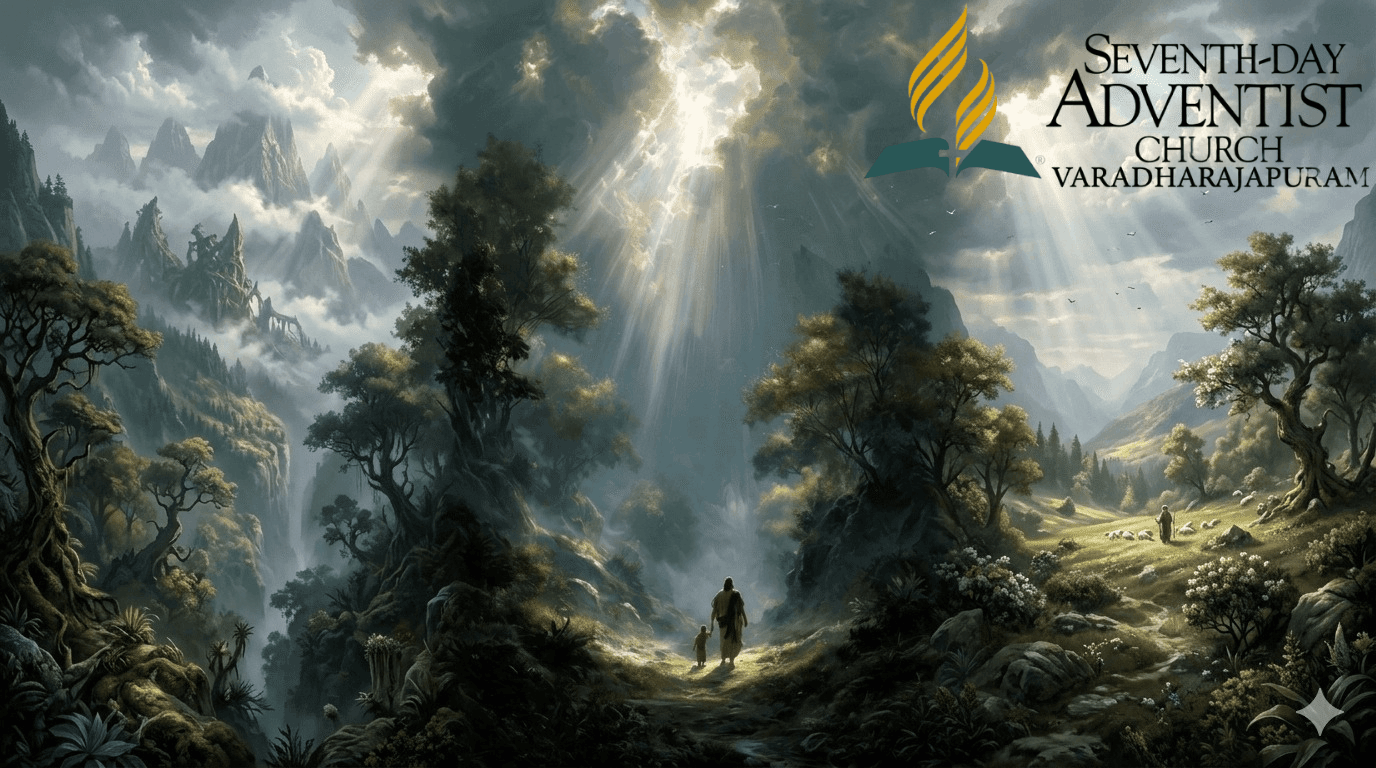
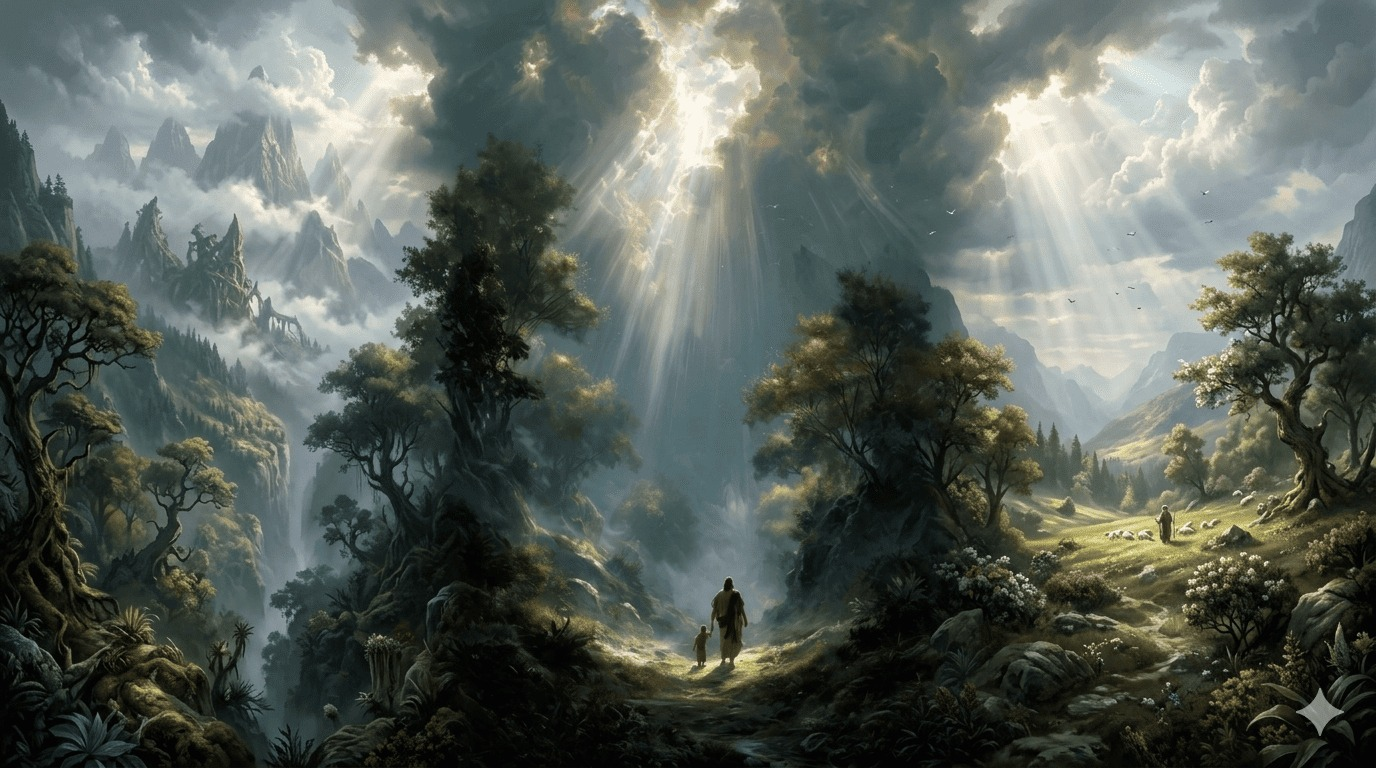
verse of the day download file enhanced

Changed region(s): [[0.625, 0.0, 1.0, 0.25]]

diff --git a/components/home/VerseOfTheDay.jsx b/components/home/VerseOfTheDay.jsx
@@ -1,4 +1,5 @@
 'use client';
+import Image from 'next/image';
 import { useEffect, useState } from 'react';
 import { useSelector } from 'react-redux';
 import { Download, BookOpen, RefreshCw, Loader2 } from 'lucide-react';
@@ -37,63 +38,114 @@ export default function VerseOfTheDay() {
   const downloadVerse = () => {
     if (!verse) return;
     const canvas = document.createElement('canvas');
-    canvas.width = 1200;
-    canvas.height = 630;
+    const isMobile = window.innerWidth < 768;
+    
+    canvas.width = isMobile ? 1080 : 1920;
+    canvas.height = isMobile ? 1920 : 1080;
+    
     const ctx = canvas.getContext('2d');
+    const bgImg = new window.Image();
+    const logoImg = new window.Image();
+    
+    bgImg.crossOrigin = 'anonymous';
+    logoImg.crossOrigin = 'anonymous';
+    
+    bgImg.src = isMobile ? '/images/verses_bg_portrait.png' : '/images/verses_bg_landscape.png';
+    logoImg.src = '/images/varadharajapuram_logo.png';
 
-    // Background gradient
-    const gradient = ctx.createLinearGradient(0, 0, 1200, 630);
-    gradient.addColorStop(0, '#4c1d95');
-    gradient.addColorStop(1, '#1a1a2e');
-    ctx.fillStyle = gradient;
-    ctx.fillRect(0, 0, 1200, 630);
+    let imagesLoaded = 0;
+    const onImageLoad = () => {
+      imagesLoaded++;
+      if (imagesLoaded === 2) drawCanvas();
+    };
 
-    // Cross decoration
-    ctx.fillStyle = 'rgba(255,255,255,0.05)';
-    ctx.fillRect(575, 100, 50, 430);
-    ctx.fillRect(375, 280, 450, 70);
+    bgImg.onload = onImageLoad;
+    logoImg.onload = onImageLoad;
+    bgImg.onerror = onImageLoad; // Continue even if one fails
+    logoImg.onerror = onImageLoad;
 
-    // Verse text
-    ctx.fillStyle = '#ffffff';
-    ctx.font = 'bold 36px Georgia';
-    ctx.textAlign = 'center';
+    function drawCanvas() {
+      // 1. Draw Background
+      const canvasAspect = canvas.width / canvas.height;
+      const imgAspect = bgImg.width / bgImg.height;
+      let drawW, drawH, drawX, drawY;
 
-    const text = language === 'ta' ? verse.ta : verse.en;
-    const words = text.split(' ');
-    let lines = [];
-    let currentLine = '';
-    words.forEach((word) => {
-      const testLine = currentLine + word + ' ';
-      if (ctx.measureText(testLine).width > 900) {
-        lines.push(currentLine.trim());
-        currentLine = word + ' ';
+      if (imgAspect > canvasAspect) {
+        drawH = bgImg.height;
+        drawW = bgImg.height * canvasAspect;
+        drawX = (bgImg.width - drawW) / 2;
+        drawY = 0;
       } else {
-        currentLine = testLine;
+        drawW = bgImg.width;
+        drawH = bgImg.width / canvasAspect;
+        drawX = 0;
+        drawY = 0;
       }
-    });
-    lines.push(currentLine.trim());
+      ctx.drawImage(bgImg, drawX, drawY, drawW, drawH, 0, 0, canvas.width, canvas.height);
 
-    const lineHeight = 50;
-    const startY = 315 - (lines.length * lineHeight) / 2;
-    ctx.font = '32px Georgia';
-    lines.forEach((line, i) => {
-      ctx.fillText(`"${i === 0 ? line : line}"`, 600, startY + i * lineHeight);
-    });
+      // 2. Dark Overlay
+      ctx.fillStyle = 'rgba(0, 0, 0, 0.45)';
+      ctx.fillRect(0, 0, canvas.width, canvas.height);
 
-    // Reference
-    ctx.font = 'bold 28px Georgia';
-    ctx.fillStyle = '#d4af37';
-    ctx.fillText(`— ${verse.ref}`, 600, startY + lines.length * lineHeight + 40);
+      // 3. Draw Logo (Top Right) - Maintain Aspect Ratio
+      const logoAspect = logoImg.width / logoImg.height;
+      const logoWidth = canvas.width * 0.15;
+      const logoHeight = logoWidth / logoAspect;
+      const margin = canvas.width * 0.04;
+      ctx.drawImage(logoImg, canvas.width - logoWidth - margin, margin, logoWidth, logoHeight);
 
-    // Church name
-    ctx.font = '22px sans-serif';
-    ctx.fillStyle = 'rgba(255,255,255,0.6)';
-    ctx.fillText('Grace Church', 600, 580);
+      // 4. Draw Text
+      ctx.textAlign = 'center';
+      ctx.textBaseline = 'middle';
+      
+      // Label (Moved to top)
+      ctx.fillStyle = '#f39c12'; // Dark Orange / Deep Gold
+      ctx.font = `bold ${canvas.width * 0.025}px sans-serif`;
+      ctx.fillText(language === 'ta' ? 'இன்றைய வசனம்' : 'VERSE OF THE DAY', canvas.width / 2, canvas.height * 0.1);
 
-    const link = document.createElement('a');
-    link.download = `verse-${verse.ref.replace(/[:\s]/g, '-')}.png`;
-    link.href = canvas.toDataURL();
-    link.click();
+      // Verse
+      ctx.fillStyle = '#ffffff';
+      ctx.font = `italic ${canvas.width * 0.045}px Georgia`;
+      const text = language === 'ta' ? verse.ta : verse.en;
+      const words = text.split(' ');
+      const lines = [];
+      let currentLine = '';
+      words.forEach(word => {
+        if (ctx.measureText(currentLine + word).width > canvas.width * 0.8) {
+          lines.push(currentLine.trim());
+          currentLine = word + ' ';
+        } else {
+          currentLine += word + ' ';
+        }
+      });
+      lines.push(currentLine.trim());
+
+      const lineHeight = canvas.width * 0.065;
+      const startY = (canvas.height / 2) - ((lines.length - 1) * lineHeight / 2);
+
+      lines.forEach((line, i) => {
+        let content = line;
+        if (i === 0) content = `"${content}`;
+        if (i === lines.length - 1) content = `${content}"`;
+        ctx.fillText(content, canvas.width / 2, startY + (i * lineHeight));
+      });
+
+      // Reference
+      ctx.fillStyle = '#d4af37';
+      ctx.font = `bold ${canvas.width * 0.035}px Georgia`;
+      ctx.fillText(`— ${verse.ref}`, canvas.width / 2, startY + (lines.length * lineHeight) + (canvas.height * 0.05));
+
+      // Brand
+      ctx.fillStyle = 'rgba(255,255,255,0.5)';
+      ctx.font = `${canvas.width * 0.02}px sans-serif`;
+      ctx.fillText('Seventh-day Adventist Church', canvas.width / 2, canvas.height * 0.92);
+
+      // Download
+      const link = document.createElement('a');
+      link.download = `verse-${verse.ref.replace(/[:\s]/g, '-')}.png`;
+      link.href = canvas.toDataURL('image/png');
+      link.click();
+    }
   };
 
   if (isLoading) {
@@ -107,8 +159,43 @@ export default function VerseOfTheDay() {
   if (!verse) return null;
 
   return (
-    <section className="bg-gradient-to-r from-primary-900 to-primary-800 py-16">
-      <div className="container-custom">
+    <section className="relative min-h-[500px] md:min-h-[600px] flex items-center py-24 md:py-32 overflow-hidden">
+      {/* Background Images */}
+      <div className="absolute inset-0 z-0">
+        <div className="hidden md:block h-full w-full relative">
+          <Image
+            src="/images/verses_bg_landscape.png"
+            alt="Verse background"
+            fill
+            className="object-cover object-top"
+            priority
+          />
+        </div>
+        <div className="block md:hidden h-full w-full relative">
+          <Image
+            src="/images/verses_bg_portrait.png"
+            alt="Verse background"
+            fill
+            className="object-cover object-top"
+            priority
+          />
+        </div>
+        {/* Overlay for readability */}
+        <div className="absolute inset-0 bg-black/40 backdrop-blur-[1px]"></div>
+      </div>
+
+      {/* Top Right Logo */}
+      <div className="absolute top-8 right-8 z-20 w-36 md:w-48 drop-shadow-xl">
+        <Image 
+          src="/images/varadharajapuram_logo.png" 
+          alt="Church Logo" 
+          width={225} 
+          height={225} 
+          className="object-contain"
+        />
+      </div>
+
+      <div className="container-custom relative z-10">
         <div className="max-w-3xl mx-auto text-center">
           <div className="flex items-center justify-center gap-2 mb-6">
             <BookOpen size={20} className="text-gold" />
@@ -116,16 +203,16 @@ export default function VerseOfTheDay() {
               {language === 'ta' ? 'இன்றைய வசனம்' : 'Verse of the Day'}
             </span>
           </div>
-          <blockquote className="text-white text-xl md:text-2xl font-serif leading-relaxed italic mb-4">
+          <blockquote className="text-white text-2xl md:text-3xl font-serif leading-relaxed italic mb-4 drop-shadow-lg">
             "{language === 'ta' ? verse.ta : verse.en}"
           </blockquote>
-          <cite className="text-gold font-semibold text-lg not-italic">— {verse.ref}</cite>
-          <div className="mt-6">
+          <cite className="text-gold font-bold text-xl not-italic drop-shadow-md">— {verse.ref}</cite>
+          <div className="mt-8">
             <button
               onClick={downloadVerse}
-              className="inline-flex items-center gap-2 px-5 py-2 rounded-lg bg-gold text-church-dark font-medium text-sm hover:bg-gold-light transition-colors"
+              className="inline-flex items-center gap-2 px-6 py-2.5 rounded-full bg-gold text-church-dark font-bold text-sm hover:bg-gold-light transition-all transform hover:scale-105 shadow-xl"
             >
-              <Download size={16} />
+              <Download size={18} />
               {language === 'ta' ? 'படமாக பதிவிறக்கு' : 'Download as Image'}
             </button>
           </div>
